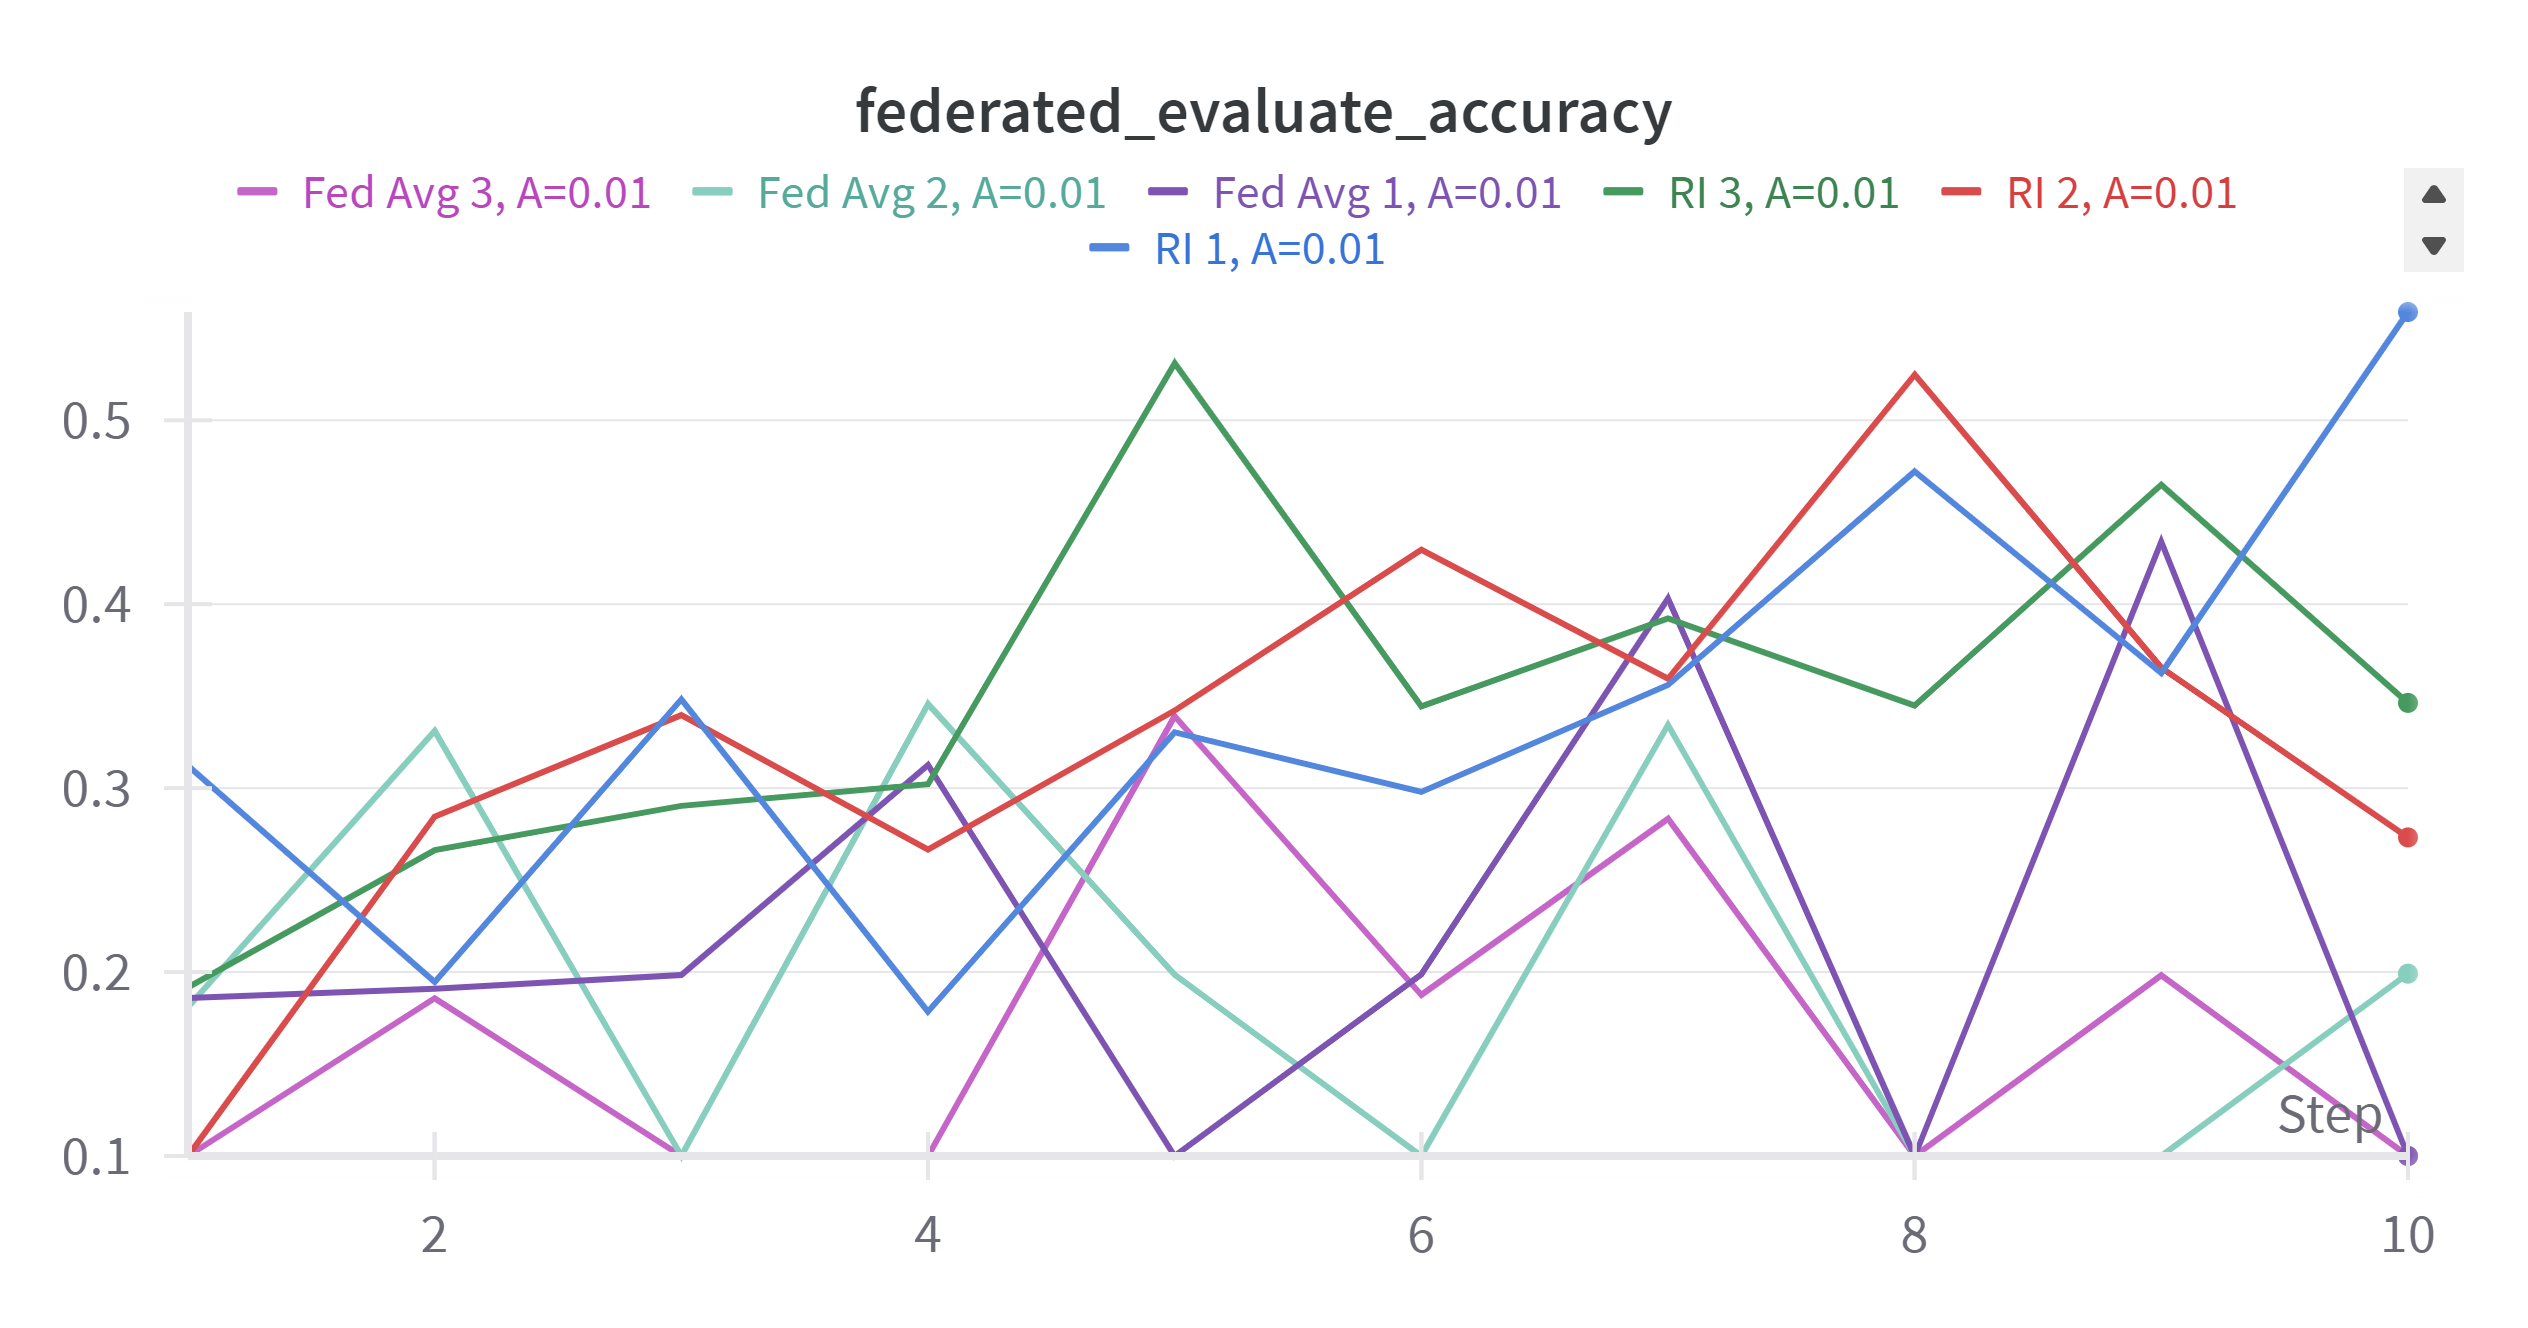
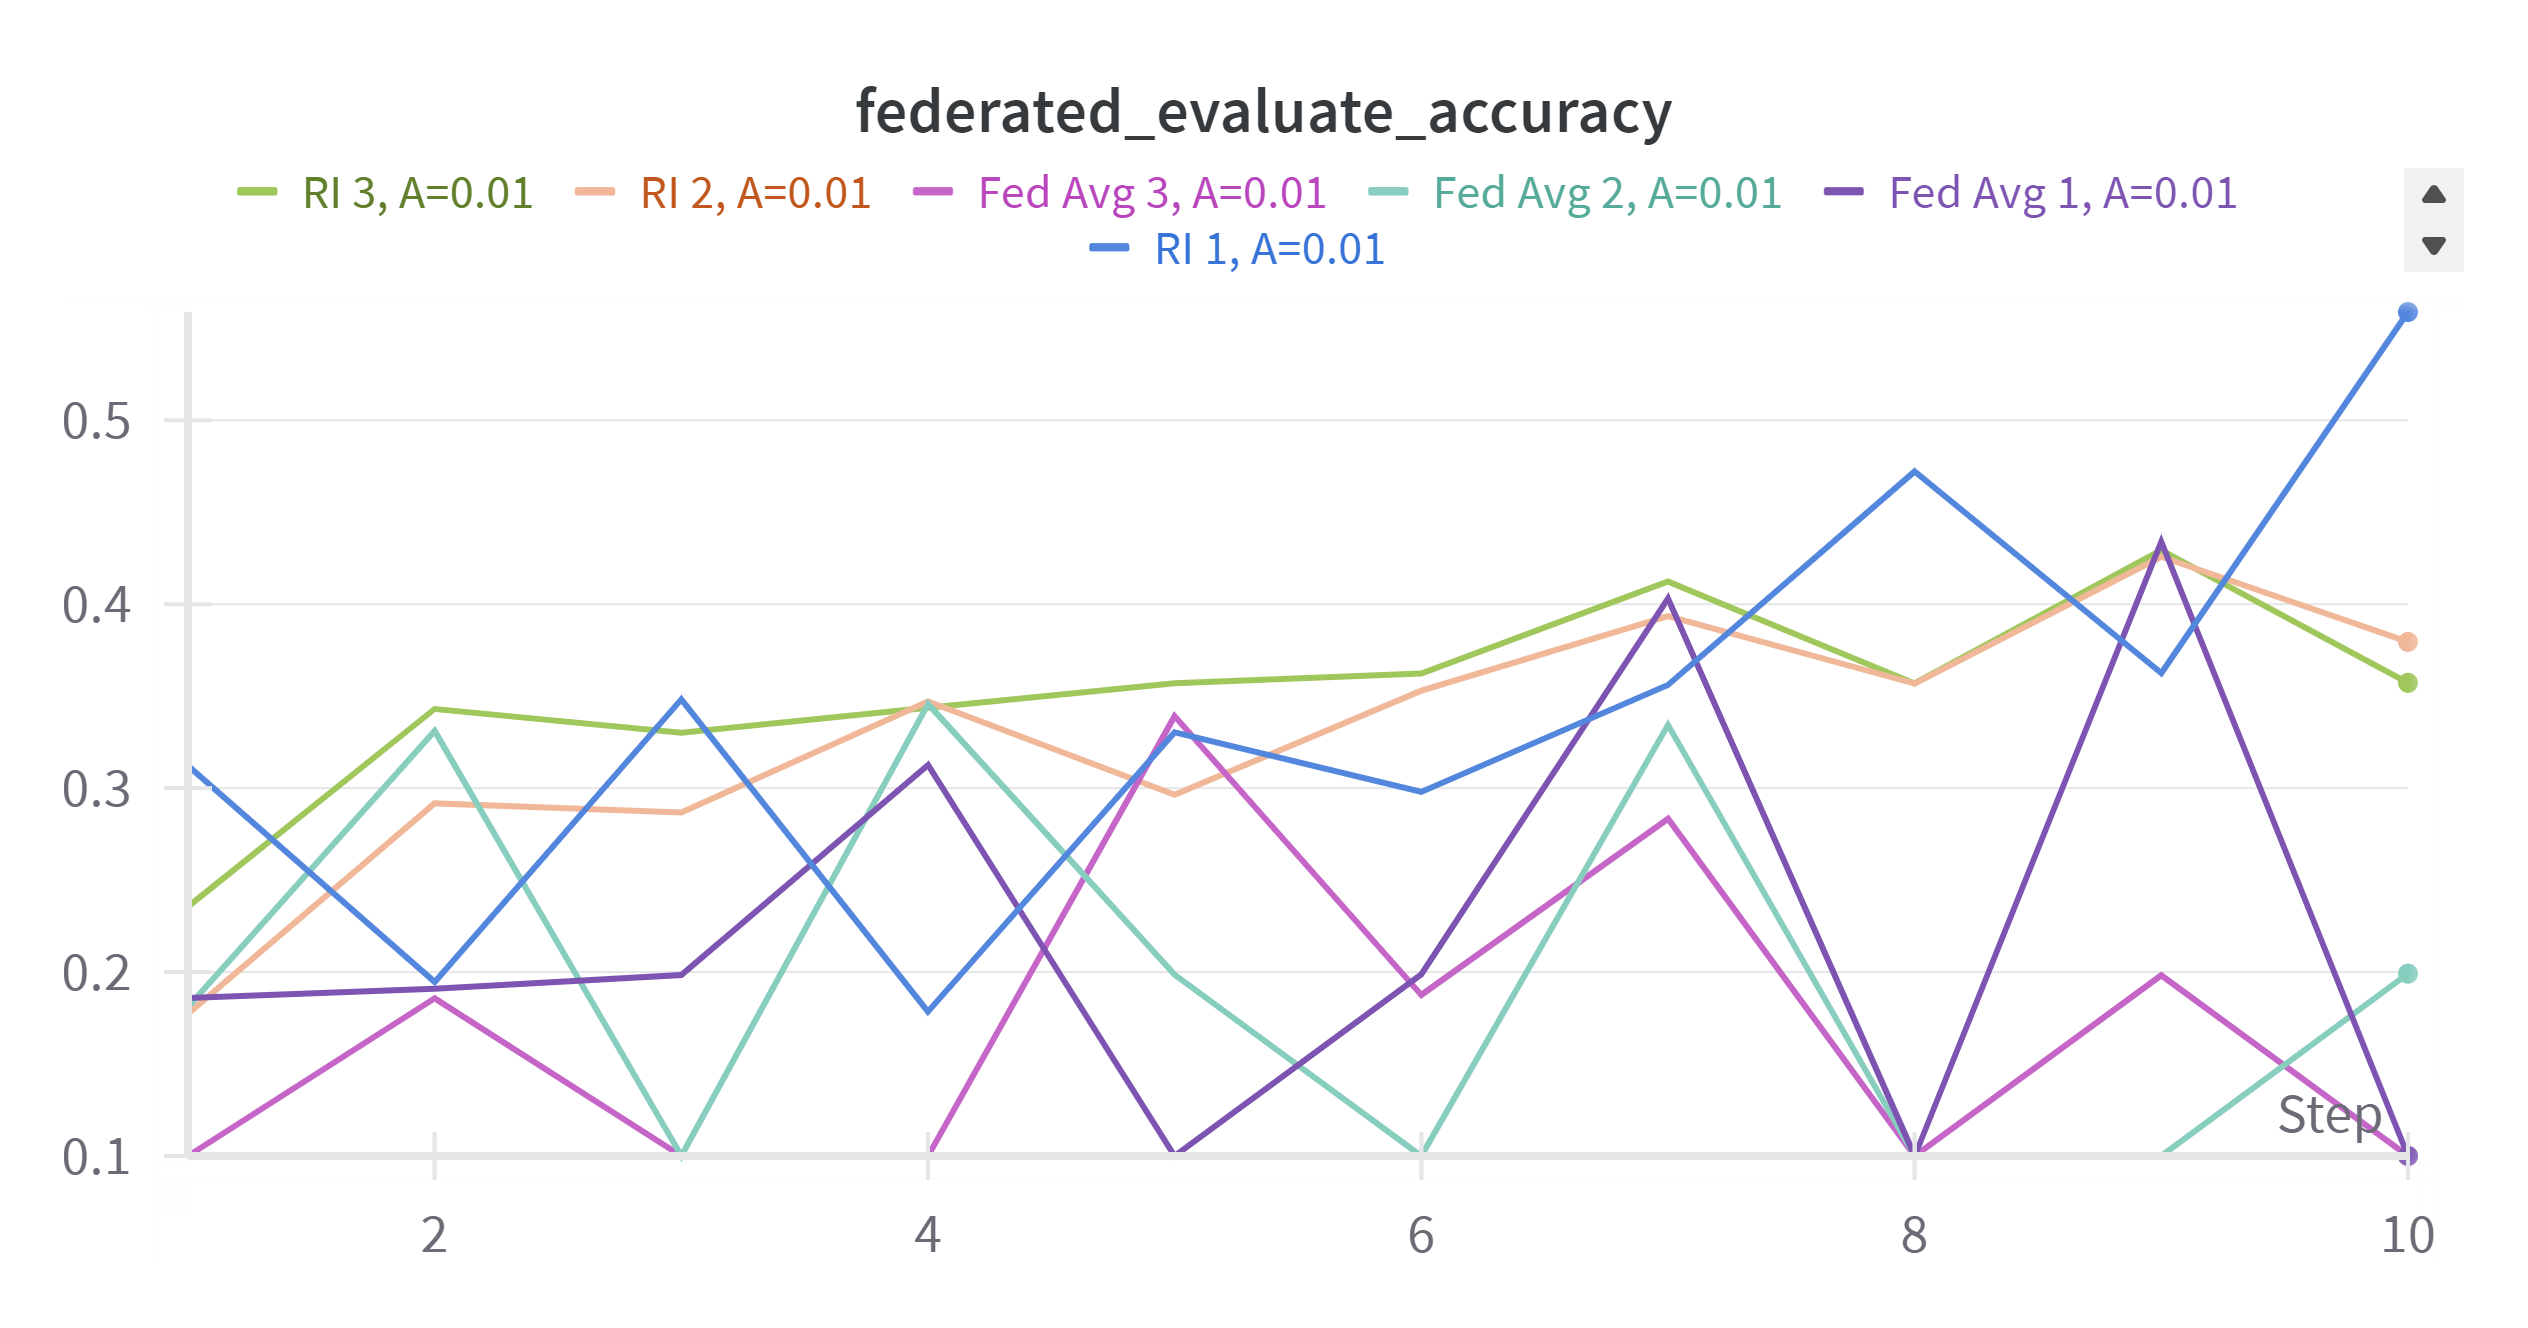
updates

diff --git a/baselines/fmnist_fedprox/task.py b/baselines/fmnist_fedprox/task.py
@@ -156,7 +156,7 @@ def load_data(partition_id: int, num_partitions: int):
         partitioner = DirichletPartitioner(
             num_partitions=num_partitions,
             partition_by="label",
-            alpha=0.01,
+            alpha=0.1,
             seed=42,
         )
         fds = FederatedDataset(
